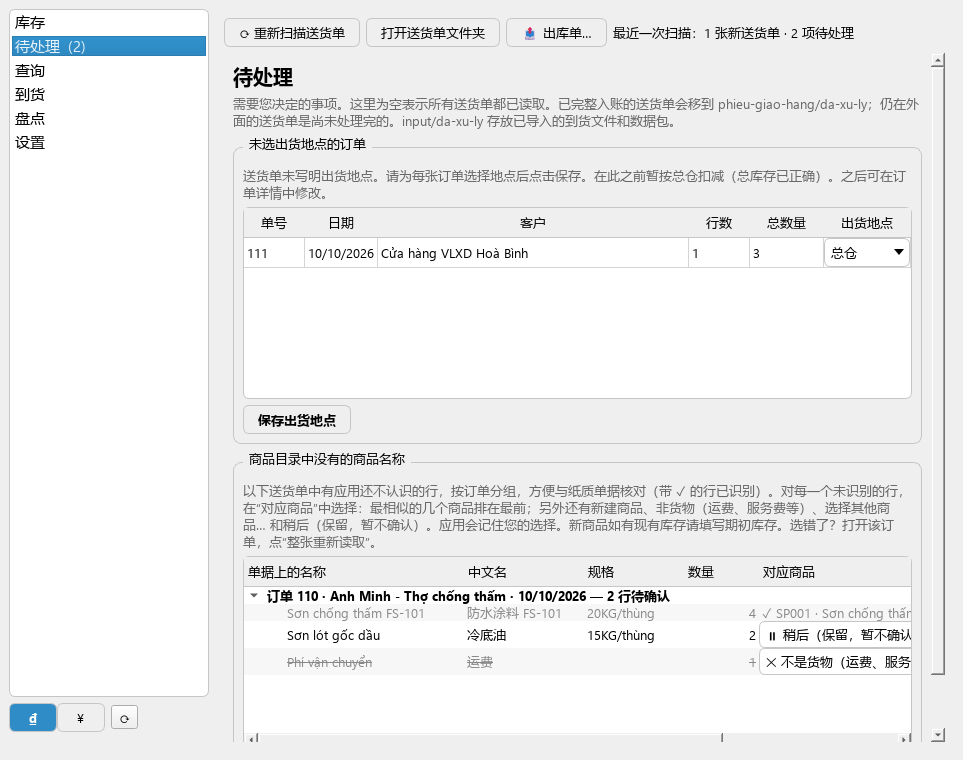
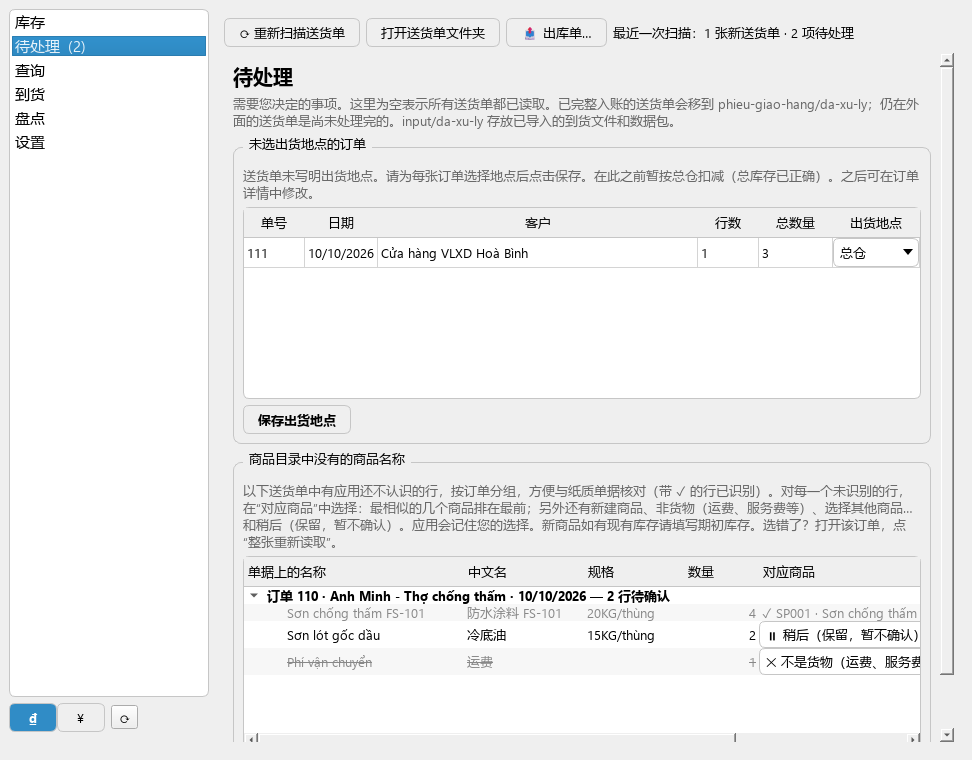
Yuan orders: older apps' pushes keep the currency on the cloud; reading notes never waits for the network
Cloud 018 gets a trigger: a push from 0.5.3/0.5.4 (no currency/fx_rate keys) keeps what the cloud has instead of
blanking it or failing NOT NULL. The rate kept with a yuan note is the switch's or the cached one (no request
inside the scan); a note read without one gets it when the switch fetches. The once-only currency check of old
notes runs from the main window on an owner's machine only, so a staff login sends nothing for approval.
The web currency filter re-renders the list. Guide screenshots regenerated.

diff --git a/webapp/app.js b/webapp/app.js
@@ -632,6 +632,7 @@ $("search-input").addEventListener("input", renderSearch);
 $("orders-kind").addEventListener("change", renderOrders);
 $("orders-filter").addEventListener("input", renderOrders);
 $("orders-closed").addEventListener("change", renderOrders);
+$("orders-currency").addEventListener("change", renderOrders);
 $("customers-filter").addEventListener("input", renderCustomers);
 $("catalog-filter").addEventListener("input", renderCatalog);
 $("login-btn").addEventListener("click", signIn);

diff --git a/src/dibekho/core/deliveries.py b/src/dibekho/core/deliveries.py
@@ -182,7 +182,6 @@ def scan(conn, ws: Workspace, allow_partial: bool = False) -> ScanResult:
     from dibekho.core import receipts  # receipts imports this module
 
     receipts.backfill_return_prices(conn)  # after the notes have their prices: a return takes its price from them
-    backfill_currency(conn, ws)
     result.pending = pending_count(conn)
     return result
 
@@ -416,7 +415,7 @@ def set_currency(conn, doc_id: int, currency: str) -> None:
     'about … dong' next to its amounts), once."""
     conn.execute("UPDATE documents SET currency = ? WHERE id = ? AND currency <> ?", (currency, doc_id, currency))
     if currency == "CNY" and conn.execute("SELECT fx_rate FROM documents WHERE id = ?", (doc_id,)).fetchone()[0] is None:
-        rate = fx.current()
+        rate = fx.known()
         if rate is not None:
             conn.execute("UPDATE documents SET fx_rate = ? WHERE id = ?", (rate.vnd_per_cny, doc_id))
 
@@ -425,7 +424,9 @@ def backfill_currency(conn, ws: Workspace) -> int:
     """Notes recorded before the currency was read (0.5.4 and earlier): look at their stored copies once. A note whose
     copy is not on this computer stays undecided (counted as dong): the computer that has the file decides. Then the
     customers' returns take the currency of the order they came back from, and a yuan note read without a rate gets
-    one when it is known. Returns the number of notes found to be in yuan."""
+    one when it is known. Returns the number of notes found to be in yuan.
+    Run by the main window after a scan, on an owner's machine only: on a staff machine every document it touches
+    would go to the owner for approval although nothing the staff did changed."""
     found = 0
     for d in conn.execute("SELECT id, source_hash FROM documents WHERE kind = 'delivery' AND currency = '' "
                           "AND source_hash <> ''").fetchall():
@@ -443,19 +444,30 @@ def backfill_currency(conn, ws: Workspace) -> int:
 
     back = conn.execute("SELECT id, customer_id, ref_code, doc_date FROM documents WHERE kind = 'receipt' "
                         "AND receipt_source = 'return' AND currency = ''").fetchall()
-    late = conn.execute("SELECT COUNT(*) FROM documents WHERE currency = 'CNY' AND fx_rate IS NULL").fetchone()[0]
-    if back or late:
+    if back:
         with db.transaction(conn):
             for d in back:
                 currency, rate = receipts.return_currency(conn, d["customer_id"], d["ref_code"] or "",
                                                           date.fromisoformat(d["doc_date"]))
                 if currency:
                     conn.execute("UPDATE documents SET currency = ?, fx_rate = ? WHERE id = ?", (currency, rate, d["id"]))
-            now = fx.current() if late else None
-            if now is not None:
-                conn.execute("UPDATE documents SET fx_rate = ? WHERE currency = 'CNY' AND fx_rate IS NULL",
-                             (now.vnd_per_cny,))
+    fill_rates(conn)
     return found
+
+
+def needs_rate(conn) -> bool:
+    """A note in yuan was read while no rate was known on this computer."""
+    return conn.execute("SELECT 1 FROM documents WHERE currency = 'CNY' AND fx_rate IS NULL LIMIT 1").fetchone() is not None
+
+
+def fill_rates(conn) -> int:
+    """Give the rate known now to the notes in yuan read without one (once: a kept rate never changes)."""
+    rate = fx.known() if needs_rate(conn) else None
+    if rate is None:
+        return 0
+    with db.transaction(conn):
+        return conn.execute("UPDATE documents SET fx_rate = ? WHERE currency = 'CNY' AND fx_rate IS NULL",
+                            (rate.vnd_per_cny,)).rowcount
 
 
 def backfill_prices(conn, ws: Workspace) -> int:

diff --git a/tests/test_currency.py b/tests/test_currency.py
@@ -75,6 +75,7 @@ def test_the_document_keeps_its_currency_and_the_rate_of_the_moment(conn, ws, mo
     assert head["goods_amount"] == 4800 and [ln["amount"] for ln in lines] == [4500, 300]
     monkeypatch.setattr(fx.Display, "rate", rate(9999))
     deliveries.scan(conn, ws)
+    deliveries.backfill_currency(conn, ws)
     assert doc(conn, "155")["fx_rate"] == 3600  # kept: the bracket does not move with today's rate
 
 
@@ -141,20 +142,22 @@ def test_a_note_whose_copy_is_elsewhere_waits_and_a_late_rate_is_filled(conn, ws
     deliveries.original_copy(ws, dong["source_hash"]).unlink()  # this computer does not have the file
     monkeypatch.setattr(fx.Display, "rate", None)
     deliveries.backfill_currency(conn, ws)
-    assert doc(conn, "156")["currency"] == "" and doc(conn, "155")["fx_rate"] is None  # offline, never had a rate
+    assert doc(conn, "156")["currency"] == "" and doc(conn, "155")["fx_rate"] is None  # no rate on this computer
+    assert deliveries.needs_rate(conn)
     assert queries.customer_money(conn, dong["customer_id"])["goods"] == 2100000  # undecided counts as dong
-    monkeypatch.setattr(fx.Display, "rate", rate(3555))
-    deliveries.backfill_currency(conn, ws)
-    assert doc(conn, "155")["fx_rate"] == 3555
+    monkeypatch.setattr(fx.Display, "rate", rate(3555))  # the switch got one
+    assert deliveries.fill_rates(conn) == 1 and doc(conn, "155")["fx_rate"] == 3555
+    assert not deliveries.needs_rate(conn) and deliveries.fill_rates(conn) == 0
 
 
-def test_the_rate_is_asked_when_none_is_fresh(monkeypatch):
-    answer = {"success": True, "base": "CNY", "timestamp": 1794700000, "rates": {"VND": 3611.5}}
-    monkeypatch.setattr(fx, "_get", lambda url, timeout: answer)
-    assert fx.current().vnd_per_cny == 3611.5
-    monkeypatch.setattr(fx, "_get", lambda url, timeout: (_ for _ in ()).throw(OSError("down")))
-    monkeypatch.setattr(fx.Display, "rate", fx.Rate(3500, datetime(2026, 1, 1), datetime(2026, 1, 1)))
-    assert fx.current().vnd_per_cny == 3500  # the network is down: the last one known
+def test_reading_notes_never_asks_the_network(conn, ws, monkeypatch):
+    """The rate kept with a yuan note is the switch's or the one cached on this computer: no request while scanning."""
+    asked = []
+    monkeypatch.setattr(fx, "_get", lambda url, timeout: asked.append(url))
+    fx.save(fx.Rate(3520, datetime(2026, 11, 1), datetime(2026, 11, 1)))
+    yuan_note(ws.deliveries / "a.xlsx", code="155", lines=[MEMBRANE])
+    known(conn, ws)
+    assert doc(conn, "155")["fx_rate"] == 3520 and asked == []
 
 
 def test_goods_sent_back_from_an_order_in_yuan_come_off_the_yuan(conn, ws, monkeypatch):
@@ -268,4 +271,21 @@ def test_the_orders_list_tells_yuan_orders_from_dong_orders(app, ws, monkeypatch
     cust = CustomerDialog(ctx, yuan["customer_id"], win)
     assert "2.100.000 ₫ + ¥4.800 (≈ 19.380.000 ₫)" in cust.money.text()
     cust.deleteLater()
+    win.deleteLater()
+
+
+def test_a_staff_machine_leaves_old_notes_alone(app, ws, monkeypatch):
+    """backfill_currency would rewrite documents nobody touched: on a staff login they would all go for approval."""
+    from tests.test_locations import window
+
+    ctx, win = window(ws)
+    shop(ctx.conn, ws, monkeypatch)
+    with db.transaction(ctx.conn):
+        ctx.conn.execute("UPDATE documents SET currency = ''")
+    ctx.cfg.cloud_role = "editor"
+    win.rescan(quiet=True)
+    assert {r[0] for r in ctx.conn.execute("SELECT currency FROM documents")} == {""}
+    ctx.cfg.cloud_role = "desktop"
+    win.rescan(quiet=True)
+    assert doc(ctx.conn, "155")["currency"] == "CNY"
     win.deleteLater()

diff --git a/src/dibekho/ui/main_window.py b/src/dibekho/ui/main_window.py
@@ -19,7 +19,7 @@ from PySide6.QtWidgets import (
 )
 
 from dibekho import APP_NAME, __version__
-from dibekho.core import activity, deliveries, inbox
+from dibekho.core import activity, deliveries, fx, inbox
 from dibekho.core.cloud import approval
 from dibekho.core.cloud import inbox as inbox_mod
 from dibekho.core.cloud import sync as cloud_sync
@@ -126,6 +126,7 @@ class MainWindow(QMainWindow):
         from dibekho.ui.currency_switch import CurrencySwitch
 
         self.currency = CurrencySwitch(ctx, left)
+        self.currency._got.connect(self._rate_arrived)  # after the switch keeps it
         self.currency.changed.connect(ctx.notify)
         left_lay.addWidget(self.currency)
         body = QWidget()
@@ -161,6 +162,27 @@ class MainWindow(QMainWindow):
         self._update_sync()
         QTimer.singleShot(2500, self.sync.start)
 
+    def _currencies(self):
+        """Notes recorded before 0.5.5 get their currency (deliveries.backfill_currency): an owner's machine only. A note
+        in yuan read while no rate was known asks the ₫ | ¥ switch for one (in the background); it is given to the
+        notes when it arrives."""
+        if approval.is_staff(self.ctx.cfg):
+            return
+        try:
+            deliveries.backfill_currency(self.ctx.conn, self.ctx.ws)
+            if deliveries.needs_rate(self.ctx.conn) and fx.Display.rate is None:
+                self.currency.refresh()
+        except Exception as exc:  # never in the way of the scan
+            activity.log("error", f"currency: {type(exc).__name__}: {exc}")
+
+    def _rate_arrived(self, *args):
+        if not approval.is_staff(self.ctx.cfg) and fx.Display.rate is not None:
+            try:
+                if deliveries.fill_rates(self.ctx.conn):
+                    self.ctx.changed.emit()
+            except Exception as exc:
+                activity.log("error", f"currency: {type(exc).__name__}: {exc}")
+
     def rescan(self, quiet: bool = False, allow_partial: bool = False):
         """Scan phieu-giao-hang/ and refresh everything. quiet=True: only notify if something changed.
         allow_partial=True after 'Apply': waiting notes are imported with their approved lines."""
@@ -171,6 +193,7 @@ class MainWindow(QMainWindow):
             error(self, t("main.scan_failed", error=str(exc)))
             return None
         self._last = result
+        self._currencies()
         if result.imported or result.pending:
             activity.log("scan", f"read {len(result.imported)}: {', '.join(result.imported)} · waiting {result.pending}"
                          if result.imported else f"waiting {result.pending}")

diff --git a/tests/test_cloud_core_schema.py b/tests/test_cloud_core_schema.py
@@ -120,3 +120,27 @@ def test_the_cloud_refuses_two_live_documents_with_one_code(conn):
     with pytest.raises(AssertionError, match="documents_code_unique"):
         run(_load_steps(conn, snap) + [{"sql": replica.cloud_insert_sql(conn, SYNCED[5]),
                                         "params": [json.dumps([twin]), "dev-b"]}])
+
+
+def test_an_older_app_pushing_an_order_keeps_its_currency_on_the_cloud(conn):
+    """0.5.3/0.5.4 (a Mac, a staff machine) push documents without currency/fx_rate (cloud 018): the cloud keeps the
+    yuan of an order it has, a new row gets '' (counted as dong), and the push is not refused."""
+    from tests.pgdb import ALL_FILES
+
+    _shop(conn)
+    snap = replica.snapshot(conn)
+    order = next(r for r in snap["documents"] if r["code"] == "7")
+    old = {k: v for k, v in order.items() if k not in ("currency", "fx_rate")}
+    new = {**old, "id": "dddddddd-dddd-4ddd-8ddd-dddddddddddd", "code": "9", "code_norm": "9"}
+    out = run(_load_steps(conn, snap) + [
+        {"sql": "insert into auth.users(id) values ($1)", "params": [OWNER]},
+        {"sql": "insert into public.profiles(user_id, role) values ($1, 'desktop')", "params": [OWNER]},
+        {"sql": "update public.documents set currency = 'CNY', fx_rate = 3600 where code = '7'"},
+        {"sql": "select public.sync_push('old-mac', public.core_max_rev(), $1::jsonb) r",
+         "params": [json.dumps({"documents": [{**old, "note": "pushed by 0.5.4"}, new]})], "sub": OWNER},
+        {"sql": "select code, note, currency, fx_rate from public.documents where code in ('7', '9') order by code"},
+    ], files=ALL_FILES)
+    assert out[-2][0]["r"]["ok"] is True
+    seven, nine = out[-1]
+    assert (seven["note"], seven["currency"], seven["fx_rate"]) == ("pushed by 0.5.4", "CNY", 3600)
+    assert (nine["currency"], nine["fx_rate"]) == ("", None)

diff --git a/src/dibekho/core/fx.py b/src/dibekho/core/fx.py
@@ -81,16 +81,11 @@ def fetch(timeout: float = TIMEOUT, get=_get) -> Rate:
     return rate
 
 
-def current(timeout: float = 4) -> Rate | None:
-    """The rate to keep with a note priced in yuan when it is read (documents.fx_rate): the one on screen or cached when
-    fresh, else asked now; when the network does not answer, the last one known (None: never had one)."""
-    rate = Display.rate or cached()
-    if is_fresh(rate):
-        return rate
-    try:
-        return fetch(timeout, get=lambda url, t: _get(url, t))  # through the module: tests switch the network off
-    except (OSError, ValueError):
-        return rate
+def known() -> Rate | None:
+    """The rate to keep with a note priced in yuan when it is read (documents.fx_rate): the one the ₫ | ¥ switch got,
+    else the last one kept on this computer. Never the network: notes are read inside a transaction on the screen's
+    thread (the switch asks for a new rate in the background; deliveries.fill_rates gives it to the notes after)."""
+    return Display.rate or cached()
 
 
 def save(rate: Rate) -> None:
